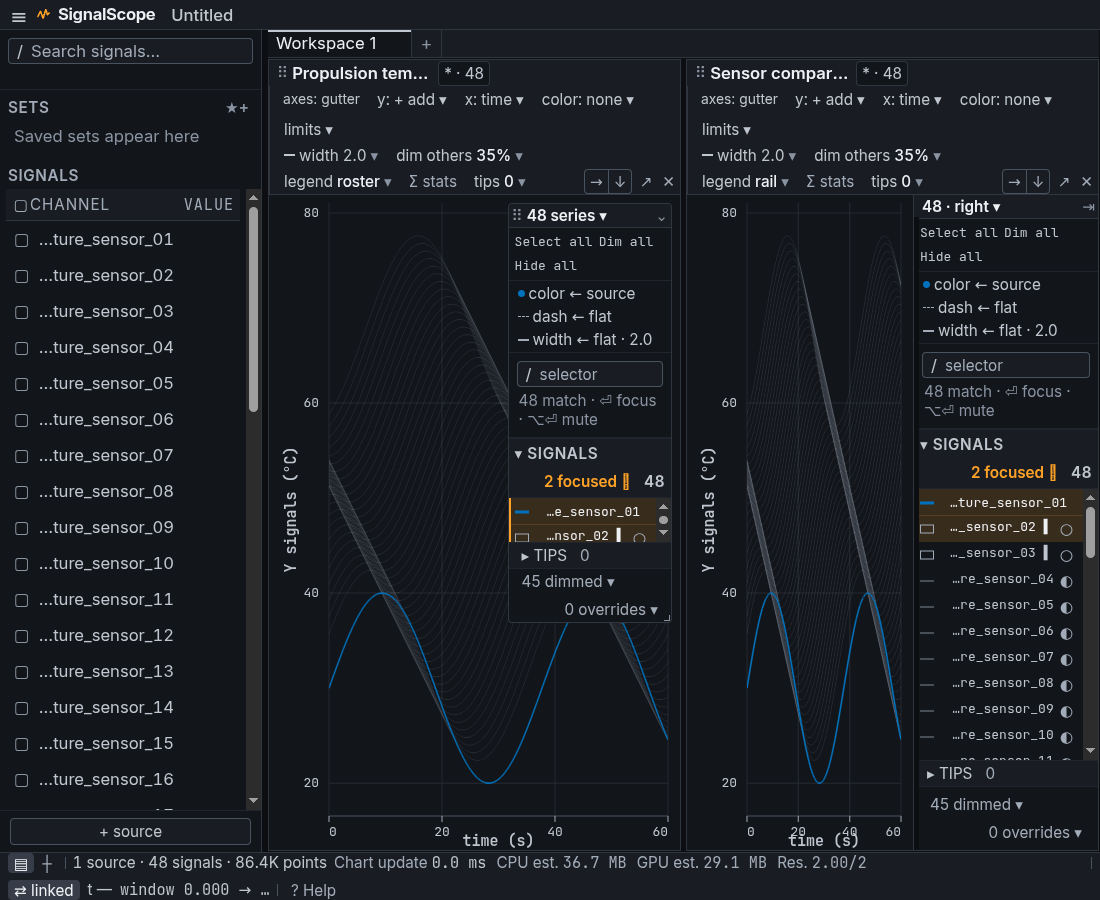
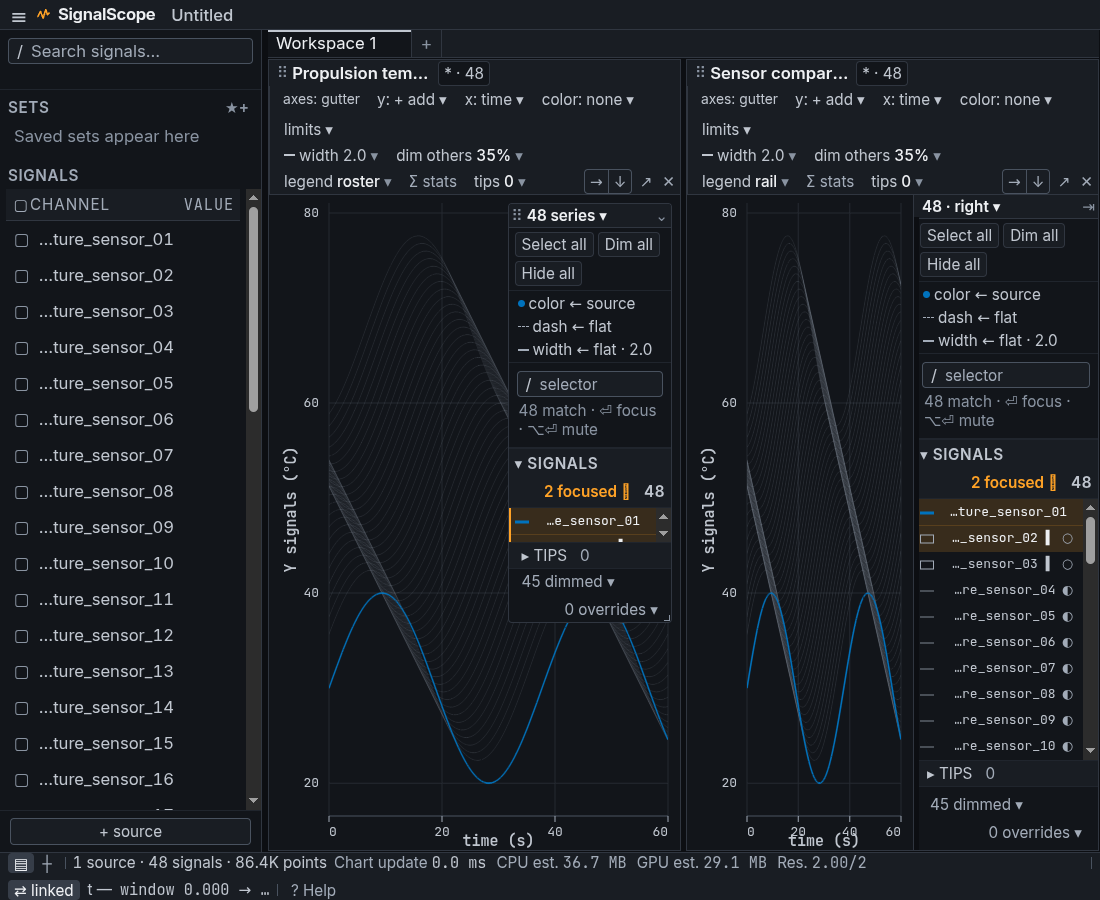
fix(ui): compact legend actions and limit oversized legend text

Changed region(s): [[0.8345, 0.2489, 1.0, 0.84], [0.4636, 0.2489, 0.6182, 0.6222]]

diff --git a/frontend/tests/e2e/ui-refinement.spec.ts b/frontend/tests/e2e/ui-refinement.spec.ts
@@ -284,4 +284,29 @@ test("dense workspace readability and independent signal states", async ({
     .click();
   await expect(row(1)).not.toHaveClass(/focused/);
   await expect(row(1)).toHaveAttribute("data-hidden", "false");
+  await page.keyboard.press("Control+Comma");
+  await page.locator(".palette-input").fill("UI font size");
+  await expect(page.locator(".palette-row.selected")).toContainText(
+    "UI font size",
+  );
+  for (let step = 0; step < 5; step++) {
+    await page.keyboard.press("ArrowLeft");
+    await expect(uiSize).toHaveText(`${String(17 - step)}px`);
+  }
+  await page.keyboard.press("Escape");
+  // Enlarged plot text must not enlarge the legend past the UI caption size.
+  await expect(firstPanel.locator(".plot-series-legend")).toHaveCSS(
+    "font-size",
+    "11px",
+  );
+  const selectAll = actions.getByRole("button", {
+    name: "Select all",
+    exact: true,
+  });
+  await expect(selectAll).toHaveCSS("font-family", /Inter/);
+  await expect(selectAll).toHaveCSS("border-top-style", "solid");
+  await expect(selectAll).toHaveCSS("border-top-width", "1px");
+  await selectAll.hover();
+  await selectAll.focus();
+  await expect(selectAll).toBeFocused();
 });

diff --git a/frontend/src/styles/legend-roster.css b/frontend/src/styles/legend-roster.css
@@ -41,19 +41,24 @@
   display: flex;
   flex: none;
   flex-wrap: wrap;
-  gap: 2px 6px;
-  padding: 3px 6px;
+  gap: 4px;
+  padding: 4px 6px;
   border-bottom: 1px solid var(--border-faint);
 }
 
 .plot-legend-bulk-actions button {
-  padding: 2px 0;
+  min-height: 20px;
+  padding: 2px 6px;
+  border: 1px solid var(--border);
+  border-radius: var(--radius-control);
+  background: var(--surface-1);
   color: var(--fg-2);
-  font: inherit;
+  font: var(--ui-caption-size) var(--font-ui);
   white-space: nowrap;
 }
 
 .plot-legend-bulk-actions button:hover {
+  background: var(--surface-3);
   color: var(--fg-1);
 }
 
@@ -196,7 +201,7 @@
 
   .plot-series-state::after {
     content: attr(data-symbol);
-    font-size: var(--ui-caption-size);
+    font-size: var(--legend-font-size);
   }
 }
 

diff --git a/frontend/tests/e2e/workbench.spec.ts b/frontend/tests/e2e/workbench.spec.ts
@@ -518,6 +518,10 @@ test("panel signal legend keeps rosters virtual and exposes unified styles", asy
   );
   const tips = plotLegend.locator(".plot-legend-tips");
   const tipsHeading = plotLegend.locator(".plot-legend-tips-heading");
+  // Leave room below the height limit before testing upward drag growth.
+  await tipsHeading.focus();
+  await page.keyboard.press("ArrowDown");
+  await page.keyboard.press("ArrowDown");
   const beforeTipsResize = await tips.boundingBox();
   const tipsHeadingBox = await tipsHeading.boundingBox();
   if (beforeTipsResize === null || tipsHeadingBox === null)

diff --git a/frontend/src/app/preferences.ts b/frontend/src/app/preferences.ts
@@ -221,7 +221,7 @@ export function applyPreferences(
   );
   target.style.setProperty(
     "--legend-row-height",
-    `${String(Math.max(26, Math.ceil(prefs.plot_font_size * 1.4 + 8)))}px`,
+    `${String(Math.max(26, Math.ceil(Math.min(prefs.plot_font_size, (prefs.ui_font_size * 11) / 13) * 1.4 + 8)))}px`,
   );
   target.style.setProperty(
     "--plot-line-width-scale",

diff --git a/frontend/src/styles/tokens.css b/frontend/src/styles/tokens.css
@@ -87,6 +87,10 @@
   --font-plot: "JetBrains Mono", ui-monospace, "SF Mono", "Menlo", monospace;
   --plot-font-size: 9;
   --ui-caption-size: calc(11rem / 13);
+  --legend-font-size: min(
+    calc(var(--plot-font-size) * 1px),
+    var(--ui-caption-size)
+  );
   --ui-text-size: calc(12rem / 13);
   --ui-body-size: 1rem;
   --ui-heading-size: calc(15rem / 13);

diff --git a/frontend/src/ui/legend-stats.ts b/frontend/src/ui/legend-stats.ts
@@ -61,7 +61,7 @@ export function aggregateLegendStats(
 }
 
 export function statGridTemplate(columns: number): string {
-  return `160px 56px repeat(${String(columns)}, calc(var(--plot-font-size) * 8px))`;
+  return `160px 56px repeat(${String(columns)}, calc(var(--legend-font-size) * 8))`;
 }
 
 export function statSpanDomain(

diff --git a/frontend/src/styles/legend-layout.css b/frontend/src/styles/legend-layout.css
@@ -134,7 +134,7 @@
   border: 1px solid var(--border);
   border-radius: var(--radius-overlay);
   font-family: var(--font-plot);
-  font-size: calc(var(--plot-font-size) * 1px);
+  font-size: var(--legend-font-size);
   font-variant-numeric: tabular-nums;
   line-height: 1.4;
 }

diff --git a/frontend/src/styles/README.md b/frontend/src/styles/README.md
@@ -32,8 +32,9 @@ actions, and mobile layouts are not part of this pass.
 
 At the default 13px UI setting, supporting controls use 11px and signal names
 use 12px. Panel titles retain their stronger weight. Legend series use the plot
-font at the selected plot size (9px by default), matching axis ticks; UI and plot font
-preferences remain independent. The plot axis default stays at 9px.
+font at the selected plot size, capped at the UI caption size: 9px by default,
+and at most 11px with the default UI size. UI and plot font preferences remain
+independent; increasing both can still enlarge the legend. Axis sizes are unchanged.
 
 The signal browser uses 26px rows at the default UI size and scales its virtual
 row geometry with font changes. Smaller UI sizes retain 22px compact rows.
@@ -43,7 +44,8 @@ and grow with plot text. Long names truncate with full-path tooltips; encoding
 summaries and inspector controls wrap within narrow legends.
 Statistics use shared column widths and scroll their headers with the values.
 
-Expanded legends keep Select all / Clear selection, Dim all / Undim all, and
+Expanded legends use compact bordered buttons in the UI font for
+Select all / Clear selection, Dim all / Undim all, and
 Hide all / Show all in a visible row above the encoding controls. These act on
 every assigned signal, including rows outside the current filter. Hiding and
 dimming preserve focus; selecting preserves visibility and explicit opacity.

diff --git a/docs/ui-refinement/README.md b/docs/ui-refinement/README.md
@@ -21,8 +21,10 @@ and expose their full names in tooltips. The
 [control inventory and typography details](../../frontend/src/styles/README.md#plot-readability)
 document the changes.
 
-After review, legend signal text now matches the axis tick font size (9px by
-default), with no extra size offset. Expanded floating and docked legends show
+After review, legend signal text follows the plot font size, capped at the small
+UI caption size: 9px by default and at most 11px at the default UI size, even
+when plot text is enlarged. Increasing the UI size still allows larger legends.
+Expanded floating and docked legends use compact bordered buttons in the UI font for
 Select all, Dim all, and Hide all directly above the encoding controls. These
 become Clear selection, Undim all, and Show all when applicable. They affect all
 assigned signals, including filtered rows. Hide and Dim preserve selection;
@@ -60,3 +62,7 @@ of shrinking under flex layout pressure. These resolve the two failures recorded
 in the first draft.
 
 Validation used the browser application, not a packaged Electron build.
+
+The button and font-cap follow-up passed 29 affected unit tests and both focused
+browser checks, including hover, keyboard focus, and enlarged plot text with the
+default interface size. The e2e wrapper also checked TypeScript and built the app.
